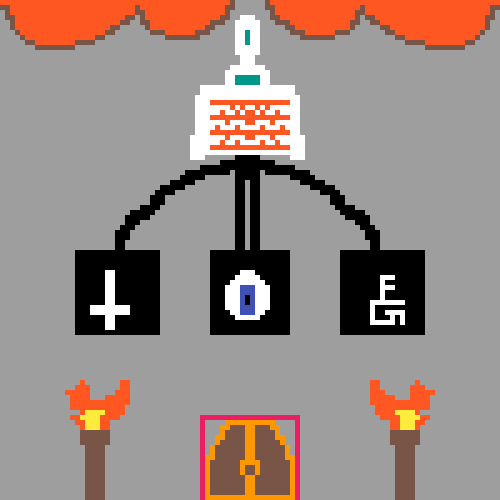
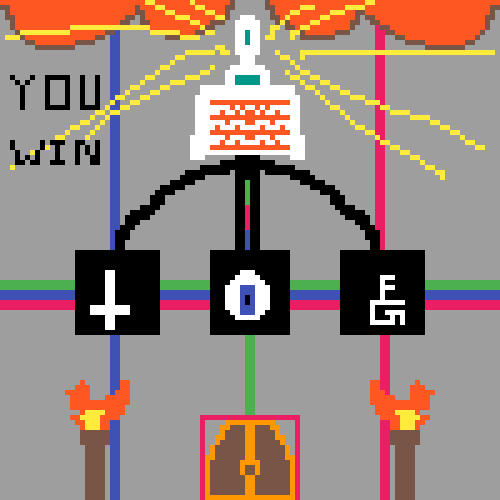
Finished Game!

diff --git a/GuiGame.java b/GuiGame.java
@@ -205,7 +205,7 @@ public class GuiGame extends Canvas {
                 e.printStackTrace();
             }
         Graphics vg = templeicon.getGraphics();
-        g.drawImage(templeicon, 400, 0, this);
+        g.drawImage(templeicon, 400, 50, this);
         if( lad == null){
             try {
                 lad = ImageIO.read(new File("src/resources/lad.png"));
@@ -257,11 +257,15 @@ else{
            return;
          }
        if(inOverworld == true){
-           if(myX == 400 && myY == 0){
+           if(myX == 400 && myY == 50){
                int templeCount = inventoryString.size();
               if(templeCount == 3){
-                  System.out.println("Testing");
+                  System.out.println();
+                  System.out.println("You've done it! You've collected all three items!");
+                  System.out.println("Your reward: Eternal Life! Light springs from the shrine and you feel unstoppable!");
+                  System.out.println("Thank you for playing our game!");
                   inTemple = true;
+                  inOverworld = false;
                 }
               else{
                   System.out.println("The legendary Shrine of Law'Shra'Ku'Nabburak. Enter only with the sacred items:");
@@ -298,6 +302,7 @@ else{
        if(inRiddle == true){
            if(myX == 0 && ((myY == 250) || (myY == 200))){
                System.out.println("Chombino gasps. 'No one has ever solved my great riddle!");
+               System.out.println("Talk to Chombino to obtain the orb!");
                solved = true;
                inRiddle = false;
                inBini = true;
@@ -374,6 +379,8 @@ else{
     
     public static void main(String[] args) {
         JFrame frame = new JFrame("Adventure! Knightman Quest Land XXV");
+                System.out.println("Welcome to Knightman Quest Land XXV");
+                System.out.println("Created by Jacob Pawlak and Nick Chang");
                 System.out.println("Use WASD To Move and E to interact");
                 System.out.println("Press I to open your Inventory!");
                 System.out.println("");
